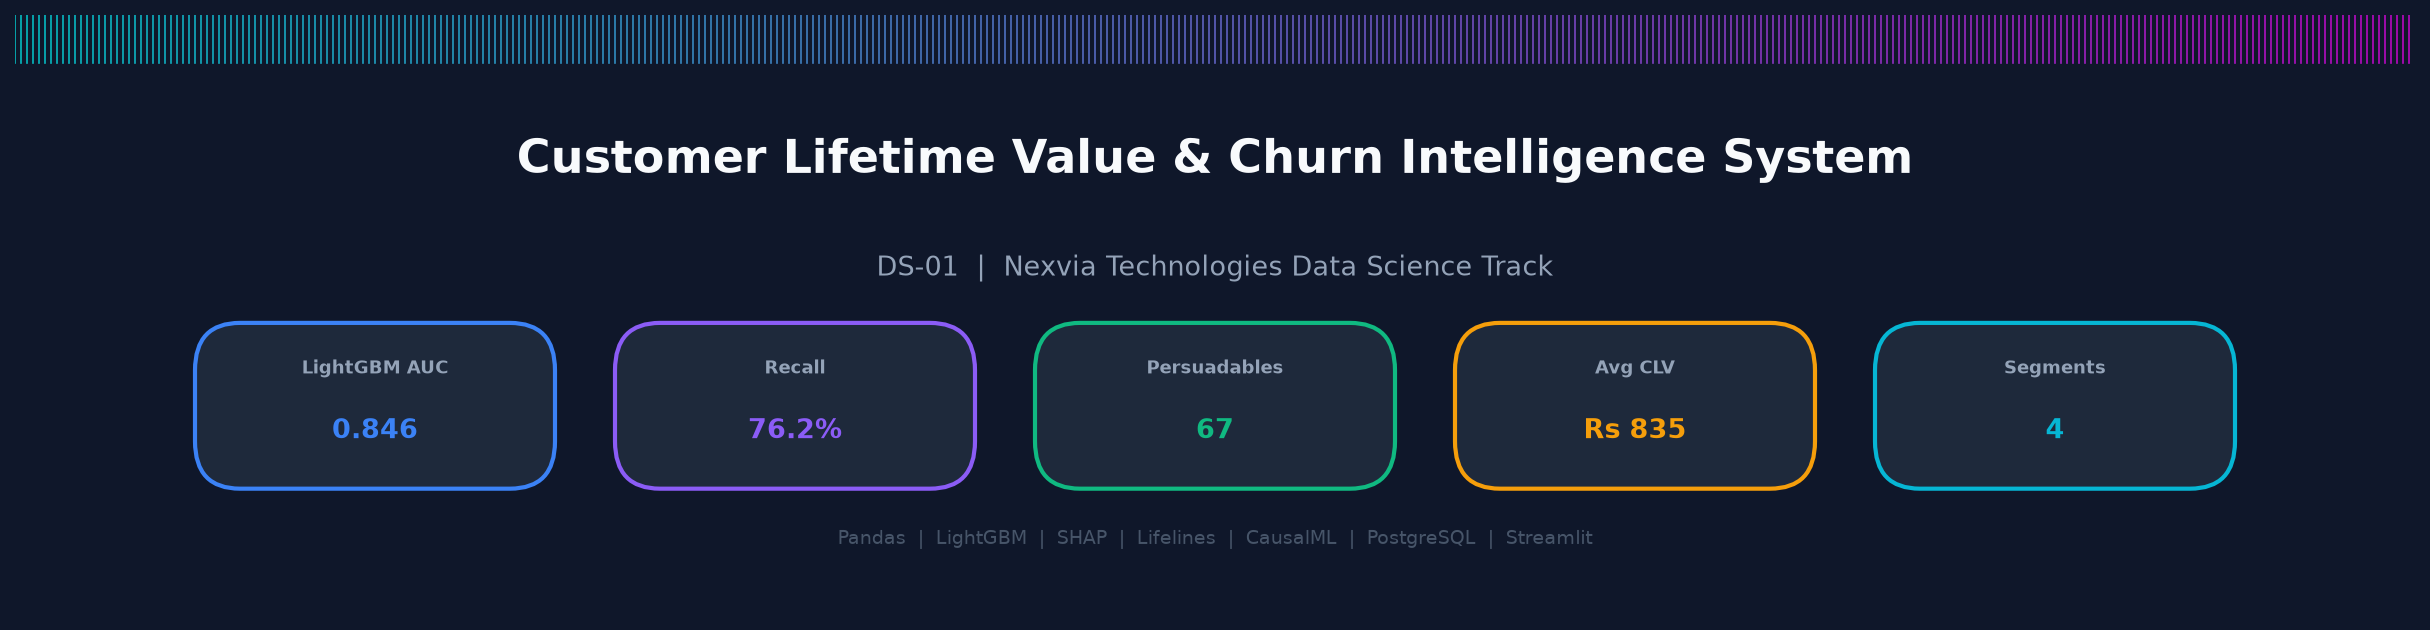
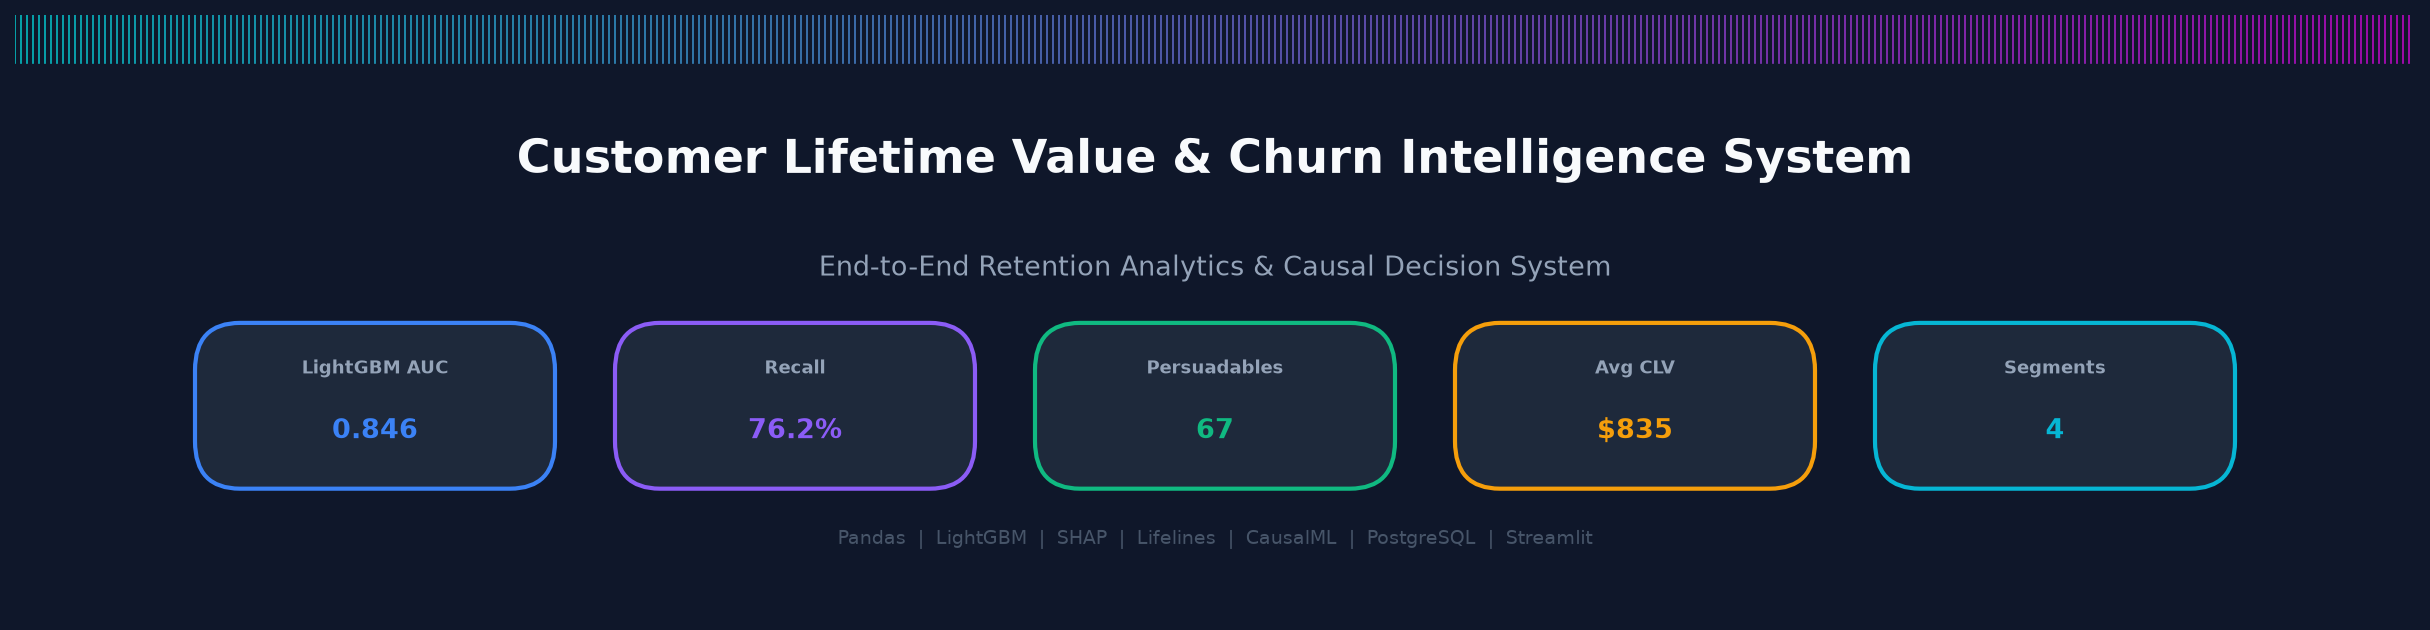
Remove portal text and track info from sidebar and branding assets

Changed region(s): [[0.3395, 0.3921, 0.6481, 0.4524], [0.6481, 0.6635, 0.7099, 0.6937]]

diff --git a/app.py b/app.py
@@ -52,7 +52,7 @@ sys.path.insert(0, ROOT)
 # -----------------------------------------------------------------------------
 
 st.set_page_config(
-    page_title="Churn Intelligence System | Nexvia",
+    page_title="Customer Churn and CLV Intelligence System",
     page_icon="📡",
     layout="wide",
     initial_sidebar_state="expanded"
@@ -180,7 +180,6 @@ with st.sidebar:
         st.image(logo_path, use_container_width=True)
     else:
         st.markdown("## 📡 Churn Intelligence")
-    st.markdown("*Nexvia Technologies | DS-01*")
     st.markdown("---")
 
     # Seamless page routing links
@@ -193,8 +192,6 @@ with st.sidebar:
     st.page_link("pages/5_CLV_Segments.py", label="💰 CLV & Segments",      icon=None)
     st.page_link("pages/6_ROI_Simulator.py", label="📈 ROI Simulator",      icon=None)
 
-    st.markdown("---")
-    st.markdown("**Track:** Data Science")
 
 
 # -----------------------------------------------------------------------------
